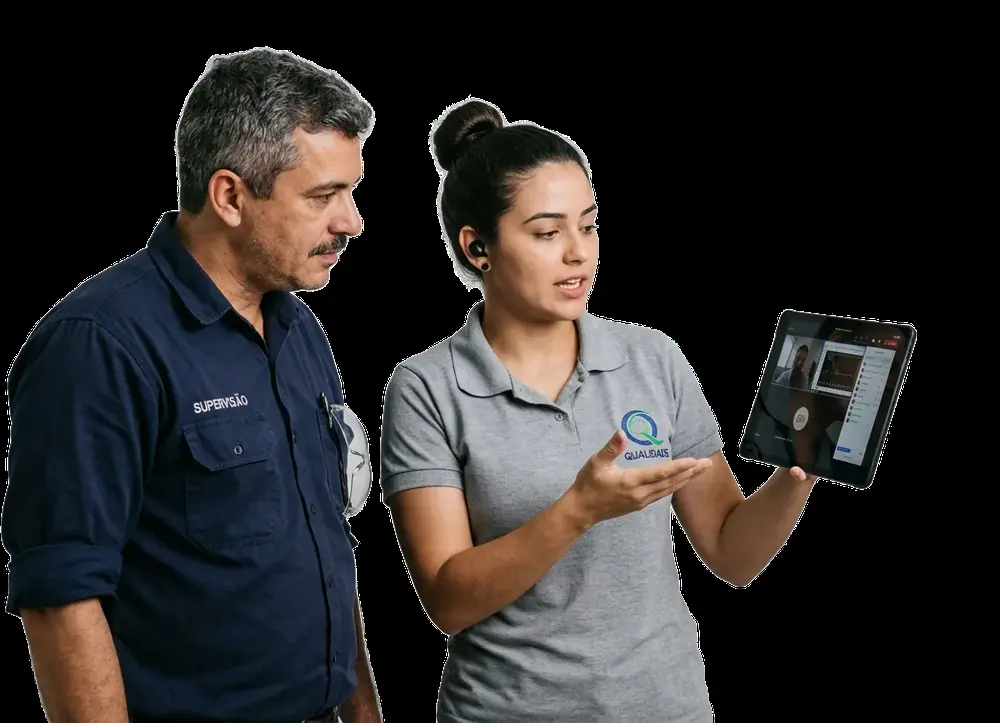
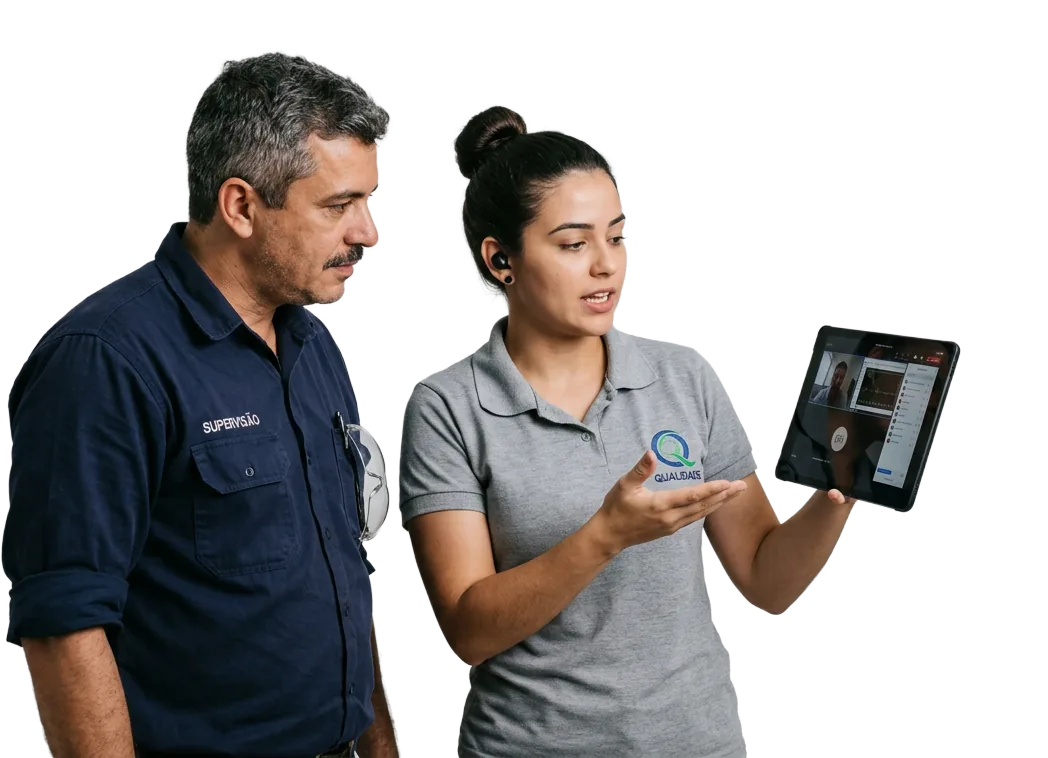
Devolve a transparencia das fotos recortadas da ISO 9001 e do PBQP-H.
A compressao tinha gravado o fundo preto no lugar da area vazia.

diff --git a/site/public/diagnostico-iso-9001-campanha/index.html b/site/public/diagnostico-iso-9001-campanha/index.html
@@ -104,13 +104,19 @@
   .next h2{margin:0 0 6px;font-size:20px;line-height:1.25;font-weight:800;}
   .next > p{margin:0 0 14px;font-size:14px;color:#C7C4B6;}
   .next > p.ask-q{font-size:15px;font-weight:800;line-height:1.35;color:#FFFAEB;}
+  .q-label{display:block;margin:12px 0 6px;font-size:13px;font-weight:800;color:#FFFAEB;}
+  #qualForm .btn-send{margin-top:16px;}
   .choices button{white-space:normal;line-height:1.3;text-align:center;}
   form{display:flex;flex-direction:column;gap:8px;}
   input{
     font-family:inherit;font-size:15px;font-weight:500;color:var(--text);
     border:0;border-radius:12px;padding:13px 14px;width:100%;background:#fff;
   }
-  input:focus{outline:2px solid var(--orange);outline-offset:1px;}
+  input:focus,select:focus{outline:2px solid var(--orange);outline-offset:1px;}
+  select{
+    font-family:inherit;font-size:15px;font-weight:500;color:var(--text);
+    border:0;border-radius:12px;padding:13px 14px;width:100%;background:#fff;
+  }
   .btn-send{background:var(--orange);color:#fff;width:100%;margin-top:4px;}
   .btn-send:hover{background:var(--orange-hover);}
   .btn-send:disabled{opacity:.55;cursor:not-allowed;}
@@ -179,6 +185,65 @@
         <button type="button" class="btn-no" id="noBtn">Não, prefiro continuar cometendo os mesmos erros</button>
       </div>
       <p class="ask-msg" id="askMsg" role="alert"></p>
+    </div>
+    <div class="next" id="qualify" hidden>
+      <h2>Antes de enviar ao time</h2>
+      <p>Estas respostas vão junto com o diagnóstico.</p>
+      <form id="qualForm" novalidate>
+        <label class="q-label" for="qFunc">Quantos funcionários a empresa tem?</label>
+        <select id="qFunc" name="funcionarios" required>
+          <option value="">Selecione</option>
+          <option>1 a 10</option>
+          <option>11 a 50</option>
+          <option>51 a 100</option>
+          <option>101 a 250</option>
+          <option>251 a 500</option>
+          <option>Mais de 500</option>
+        </select>
+        <label class="q-label" for="qCargo">Qual é o seu cargo?</label>
+        <select id="qCargo" name="cargo" required>
+          <option value="">Selecione</option>
+          <option>Proprietário</option>
+          <option>Diretor / C-level</option>
+          <option>Consultor</option>
+          <option>Funcionário buscando informações</option>
+          <option>Só estou curioso</option>
+        </select>
+        <label class="q-label" for="qFat">Qual é o faturamento mensal?</label>
+        <select id="qFat" name="faturamento" required>
+          <option value="">Selecione</option>
+          <option>Até R$ 50 mil</option>
+          <option>R$ 50 mil a R$ 100 mil</option>
+          <option>R$ 100 mil a R$ 300 mil</option>
+          <option>R$ 300 mil a R$ 500 mil</option>
+          <option>R$ 500 mil a R$ 1 milhão</option>
+          <option>Acima de R$ 1 milhão</option>
+        </select>
+        <label class="q-label" for="qSeg">Qual é o segmento da empresa?</label>
+        <select id="qSeg" name="segmento" required>
+          <option value="">Selecione</option>
+          <option>Indústria</option>
+          <option>Construção Civil</option>
+          <option>Alimentos e Bebidas</option>
+          <option>Saúde e Bem-estar</option>
+          <option>Tecnologia e TI</option>
+          <option>Serviços</option>
+          <option>Logística e Transporte</option>
+          <option>Comércio e Varejo</option>
+          <option>Agronegócio</option>
+          <option>Outro</option>
+        </select>
+        <label class="q-label" for="qUrg">Qual é a urgência?</label>
+        <select id="qUrg" name="urgencia" required>
+          <option value="">Selecione</option>
+          <option>Preciso resolver agora</option>
+          <option>Nos próximos 30 dias</option>
+          <option>Neste semestre</option>
+          <option>Ainda não tenho prazo</option>
+        </select>
+        <button class="btn-send" id="qualBtn" type="submit">Enviar para o time</button>
+        <p class="ask-msg" id="qualMsg" role="alert"></p>
+      </form>
     </div>
     <div class="ok" id="thanks" hidden></div>
     <button type="button" class="again" id="againBtn">Refazer as perguntas</button>
@@ -417,6 +482,12 @@
     document.getElementById("ask").hidden = false;
     document.getElementById("askChoices").hidden = false;
     document.getElementById("askMsg").textContent = "";
+    document.getElementById("qualify").hidden = true;
+    document.getElementById("qualForm").reset();
+    document.getElementById("qualMsg").textContent = "";
+    var qualBtn = document.getElementById("qualBtn");
+    qualBtn.disabled = false;
+    qualBtn.textContent = "Enviar para o time";
     document.getElementById("thanks").hidden = true;
     document.getElementById("againBtn").hidden = false;
     quizEl.hidden = true;
@@ -461,6 +532,11 @@
     sendBtn.textContent = "Ver meu diagnóstico";
     document.getElementById("yesBtn").disabled = false;
     document.getElementById("noBtn").disabled = false;
+    document.getElementById("qualForm").reset();
+    document.getElementById("qualMsg").textContent = "";
+    var qualBtn = document.getElementById("qualBtn");
+    qualBtn.disabled = false;
+    qualBtn.textContent = "Enviar para o time";
     showQuiz();
   });
 
@@ -577,18 +653,44 @@
     });
   });
 
-  function sendChoice(choice) {
+  function showQualify() {
+    if (!result) return;
+    document.getElementById("ask").hidden = true;
+    var box = document.getElementById("qualify");
+    box.hidden = false;
+    document.getElementById("qualMsg").textContent = "";
+    box.scrollIntoView({ behavior: "smooth", block: "start" });
+  }
+
+  function sendChoice(choice, extra) {
     if (!pessoa || !result) return;
     var yesBtn = document.getElementById("yesBtn");
     var noBtn = document.getElementById("noBtn");
     var askMsg = document.getElementById("askMsg");
-    if (yesBtn.disabled) return;
-    yesBtn.disabled = true;
-    noBtn.disabled = true;
-    askMsg.textContent = "";
+    var qualBtn = document.getElementById("qualBtn");
+    var qualMsg = document.getElementById("qualMsg");
+    if (choice === "sim") {
+      if (qualBtn.disabled) return;
+      qualBtn.disabled = true;
+      qualBtn.textContent = "Enviando...";
+      qualMsg.textContent = "";
+    } else {
+      if (yesBtn.disabled) return;
+      yesBtn.disabled = true;
+      noBtn.disabled = true;
+      askMsg.textContent = "";
+    }
     var weak = result.rows[0];
     var note = choice === "sim"
-      ? "Pediu contato para resolver: " + weak.name + ". " + weak.gap
+      ? [
+          "Pediu contato para resolver: " + weak.name + ". " + weak.gap,
+          "Funcionários: " + extra.funcionarios,
+          "Cargo: " + extra.cargo,
+          "Faturamento mensal: " + extra.faturamento,
+          "Segmento: " + extra.segmento,
+          "Urgência: " + extra.urgencia,
+          mensagem()
+        ].join("\n")
       : "Viu o diagnóstico e não pediu contato. Ponto mais fraco: " + weak.name + ".";
     var payload = {
       nome: pessoa.nome,
@@ -603,6 +705,13 @@
       landing: location.href,
       meta_content_name: CONTENT_NAME
     };
+    if (choice === "sim" && extra) {
+      payload.funcionarios = extra.funcionarios;
+      payload.cargo = extra.cargo;
+      payload.faturamento = extra.faturamento;
+      payload.segmento = extra.segmento;
+      payload.urgencia = extra.urgencia;
+    }
     var params = new URLSearchParams(location.search);
     ["utm_source", "utm_medium", "utm_campaign", "utm_term", "utm_content", "gclid", "fbclid", "gbraid", "wbraid"].forEach(function (key) {
       var value = params.get(key);
@@ -623,12 +732,19 @@
     }).then(function (res) {
       if (window.tplTurnstileReset) window.tplTurnstileReset();
       if (!res.ok || !res.body || res.body.ok !== true) {
-        yesBtn.disabled = false;
-        noBtn.disabled = false;
-        askMsg.textContent = "Não conseguimos registrar agora. Tente de novo.";
+        if (choice === "sim") {
+          qualBtn.disabled = false;
+          qualBtn.textContent = "Enviar para o time";
+          qualMsg.textContent = "Não conseguimos registrar agora. Tente de novo.";
+        } else {
+          yesBtn.disabled = false;
+          noBtn.disabled = false;
+          askMsg.textContent = "Não conseguimos registrar agora. Tente de novo.";
+        }
         return;
       }
       document.getElementById("ask").hidden = true;
+      document.getElementById("qualify").hidden = true;
       document.getElementById("againBtn").hidden = true;
       var thanks = document.getElementById("thanks");
       thanks.hidden = false;
@@ -637,13 +753,36 @@
         : "Certo. O diagnóstico fica com você.";
     }).catch(function () {
       if (window.tplTurnstileReset) window.tplTurnstileReset();
-      yesBtn.disabled = false;
-      noBtn.disabled = false;
-      askMsg.textContent = "Não conseguimos registrar agora. Tente de novo.";
+      if (choice === "sim") {
+        qualBtn.disabled = false;
+        qualBtn.textContent = "Enviar para o time";
+        qualMsg.textContent = "Não conseguimos registrar agora. Tente de novo.";
+      } else {
+        yesBtn.disabled = false;
+        noBtn.disabled = false;
+        askMsg.textContent = "Não conseguimos registrar agora. Tente de novo.";
+      }
     });
   }
-  document.getElementById("yesBtn").addEventListener("click", function () { sendChoice("sim"); });
+  document.getElementById("yesBtn").addEventListener("click", showQualify);
   document.getElementById("noBtn").addEventListener("click", function () { sendChoice("nao"); });
+  document.getElementById("qualForm").addEventListener("submit", function (ev) {
+    ev.preventDefault();
+    var extra = {
+      funcionarios: document.getElementById("qFunc").value,
+      cargo: document.getElementById("qCargo").value,
+      faturamento: document.getElementById("qFat").value,
+      segmento: document.getElementById("qSeg").value,
+      urgencia: document.getElementById("qUrg").value
+    };
+    var qualMsg = document.getElementById("qualMsg");
+    if (!extra.funcionarios || !extra.cargo || !extra.faturamento || !extra.segmento || !extra.urgencia) {
+      qualMsg.textContent = "Preencha as cinco respostas para enviar.";
+      return;
+    }
+    qualMsg.textContent = "";
+    sendChoice("sim", extra);
+  });
 
   showQuiz();
 })();

diff --git a/site/src/lp/pbqp-h-lp-v3.html b/site/src/lp/pbqp-h-lp-v3.html
@@ -33,7 +33,7 @@
 <section class="guarantee" id="garantia"><div class="wrap guarantee-grid"><strong class="guarantee-number">200%</strong><div class="guarantee-text"><h2>Certificação ou o dobro do dinheiro de volta.</h2><p>Se sua construtora cumprir todos os processos do método e ainda assim não obtiver a certificação, aplica-se a garantia de devolução de 200% prevista em contrato. Consulte as condições, obrigações e limites da garantia para o seu projeto.</p></div><button class="btn" data-lead="garantia" data-abre-form data-cta-pos="meio" data-cta="garantia">Solicitar proposta PBQP-H</button></div></section>
 <section class="section standard-diffs"><div class="wrap split"><div><h2>Por que contar<br>com a Templum?</h2><article class="diff-row"><img class="icon" src="/consultoria/iso-9001-lp-v3/assets/img/icons/especialistas.webp" alt="" width="48" height="48" loading="lazy"><div><h3>Especialistas</h3><p>Orientação técnica para esclarecer dúvidas e acompanhar as atividades da construtora durante a implementação.</p></div></article><article class="diff-row"><img class="icon" src="/consultoria/iso-9001-lp-v3/assets/img/icons/plataforma.webp" alt="" width="48" height="48" loading="lazy"><div><h3>Templum OS</h3><p>Plataforma com agentes integrados que entendem o seu sistema de gestão e apoiam o trabalho da implementação.</p></div></article><article class="diff-row"><img class="seal" src="https://templum.com.br/consultoria/iso-9001-lp-v3/assets/img/selo-estamos-implementando-160.webp" alt="Selo Estamos Implementando, da Templum" width="44" height="44" loading="lazy"><div><h3>Selo “Estamos Implementando”</h3><p>Comunique que a construtora está em implementação com a Templum. O selo informa esse estágio e não substitui o certificado nem os requisitos do banco ou do edital.</p></div></article></div><figure class="os-visual"><img src="https://templum.com.br/consultoria/iso-9001-lp-v3/assets/img/templum-os-800.webp" alt="Ilustração institucional do Templum OS, reutilizada da página ISO 9001 da Templum" width="800" height="500" loading="lazy"><figcaption>Templum OS · tecnologia de apoio à implementação.</figcaption></figure></div></section>
 <section class="section proof" id="experiencias"><div class="wrap"><div class="proof-heading"><div><h2>Orientação durante a implementação.<br>Confiança para avançar.</h2><p>A construção em destaque, e relatos de quem já implementou com a Templum.</p></div><div class="proof-metrics"><div><strong>+2.000</strong><span>clientes certificados</span></div><div><strong>4,9</strong><span>de nota no Google</span></div><div><strong>+30 anos</strong><span>de mercado</span></div></div></div><div class="proof-grid"><article class="proof-feature"><figure class="quote"><blockquote>“O PBQP-H é cartão de visita para os investidores, para o financiamento, para tudo. O banco fica tranquilo, porque você já passou por requisitos que uma pessoa qualquer não passaria. Implementar com a Templum foi muito fácil. Ela deu um checklist, deu um procedimento e a gente simplesmente seguiu.”</blockquote></figure><p class="eyebrow">Experiência no seu setor</p><h3>Construtora Carvalho Forte</h3><a class="case-video" href="https://www.youtube.com/watch?v=CiA6yRDMWyk" target="_blank" rel="noopener noreferrer" aria-label="Assistir ao depoimento de PBQP-H da Construtora Carvalho Forte"><img src="https://img.youtube.com/vi/CiA6yRDMWyk/hqdefault.jpg" width="480" height="360" alt="Vídeo do depoimento da Construtora Carvalho Forte sobre o PBQP-H" loading="lazy"><span class="play" aria-hidden="true">▶</span><span class="video-caption">Experiência de PBQP-H · Construtora Carvalho Forte</span></a></article><article class="proof-quotes"><figure class="quote"><blockquote>“Excelente prestação de serviço, plataforma interativa e muito fácil de navegar. Mesmo sendo uma consultoria remota, não nos sentimos sozinhos na execução das tarefas. Tivemos o retorno esperado, com a certificação na norma 9001:2015 em 10 meses de projeto.”</blockquote><figcaption><strong>Gleyse Nunes</strong><span>Cliente Templum, certificação ISO 9001:2015</span></figcaption></figure><figure class="quote quote-small"><blockquote>“Conquistamos dentro do prazo de 1 ano 5 certificações ISOs (9001, 14001, 45001, 27001 e 27701) com a parceria da Templum. Esse prazo curto só foi possível através da excelente metodologia e consultores da Templum.”</blockquote><figcaption><strong>Daniel Okubo</strong><span>ManpowerGroup, avaliação no Google</span></figcaption></figure><a class="proof-extra" href="https://vimeo.com/106970851" target="_blank" rel="noopener noreferrer" aria-label="Assistir ao vídeo da APAE"><span class="proof-extra-thumb"><img src="/consultoria/iso-9001-lp-v3/assets/img/video-apae.webp" alt="" width="200" height="112" loading="lazy"><span class="play" aria-hidden="true">▶</span></span><span class="proof-extra-copy"><strong>APAE</strong><span>Como a ISO 9001 ajuda a APAE a captar mais recursos.</span></span></a><a class="proof-extra" href="https://vimeo.com/93394460" target="_blank" rel="noopener noreferrer" aria-label="Assistir à experiência na indústria de usinagem"><span class="proof-extra-thumb"><img src="/consultoria/iso-9001-lp-v3/assets/img/video-usinagem.webp" alt="" width="200" height="112" loading="lazy"><span class="play" aria-hidden="true">▶</span></span><span class="proof-extra-copy"><strong>Indústria de usinagem</strong><span>A ISO 9001 aplicada a uma indústria do setor.</span></span></a></article></div><div class="proof-cta"><button class="btn" data-lead="prova" data-abre-form data-cta-pos="meio" data-cta="prova">Solicitar proposta PBQP-H</button></div></div></section>
-<section class="section decision"><div class="wrap decision-grid"><figure class="decision-photo"><img src="/consultoria/iso-9001-lp-v3/assets/img/persona-duo.webp?v=20261029p" alt="Consultora e gestor analisam os documentos e as responsabilidades do projeto" width="800" height="600" loading="lazy"></figure><div class="decision-copy"><h2>Clareza para quem aprova. Apoio para quem implementa.</h2><p>Você conduz o projeto, mas a decisão passa pelo sócio ou pela diretoria? Leve a proposta para essa conversa: ela mostra o que a consultoria faz, o que fica com a equipe da construtora e as condições de contratação.</p><button class="btn" data-lead="decisao" data-abre-form data-cta-pos="meio" data-cta="decisao">Solicitar proposta PBQP-H</button></div></div></section>
+<section class="section decision"><div class="wrap decision-grid"><figure class="decision-photo"><img src="/consultoria/iso-9001-lp-v3/assets/img/persona-duo.webp?v=20261030h" alt="Consultora e gestor analisam os documentos e as responsabilidades do projeto" width="800" height="600" loading="lazy"></figure><div class="decision-copy"><h2>Clareza para quem aprova. Apoio para quem implementa.</h2><p>Você conduz o projeto, mas a decisão passa pelo sócio ou pela diretoria? Leve a proposta para essa conversa: ela mostra o que a consultoria faz, o que fica com a equipe da construtora e as condições de contratação.</p><button class="btn" data-lead="decisao" data-abre-form data-cta-pos="meio" data-cta="decisao">Solicitar proposta PBQP-H</button></div></div></section>
 <section class="section opportunity" id="oportunidade"><div class="wrap split"><div class="copy"><div class="eyebrow">Uma exigência concreta</div><h2>O próximo empreendimento pode pedir uma construtora qualificada.</h2><p class="muted">Na linha Apoio à Produção da CAIXA, a qualificação SiAC/PBQP-H está entre os requisitos apresentados às construtoras.</p><p class="muted">Se essa é a operação que você pretende realizar, a preparação precisa entrar no planejamento.</p></div><aside class="reference-card" aria-label="Referência oficial da oportunidade"><div class="ref-tag"><svg class="icon" fill="none" stroke="currentColor" aria-hidden="true"><use href="#building"/></svg>Referência oficial · CAIXA</div><h3>Apoio à Produção</h3><p class="muted" style="font-size:13px;margin-bottom:20px">Entre as condições apresentadas para essa linha:</p><div class="requirement"><svg class="icon" fill="none" stroke="currentColor" aria-hidden="true"><use href="#check"/></svg><strong>Qualificação da construtora no SiAC/PBQP-H</strong></div><div class="requirement"><svg class="icon" fill="none" stroke="currentColor" aria-hidden="true"><use href="#check"/></svg><span>Incorporação registrada e projeto aprovado</span></div><div class="requirement"><svg class="icon" fill="none" stroke="currentColor" aria-hidden="true"><use href="#check"/></svg><span>Licenças e demais requisitos aplicáveis</span></div><p class="note">Fonte: CAIXA, Apoio à Produção. Referência consultada em 29/10/2026. As condições aplicáveis ao empreendimento devem ser confirmadas com o agente financeiro.</p></aside></div></section>
 <section class="section soft" id="duvidas"><div class="wrap faq-grid"><div class="faq-intro"><div class="eyebrow">Perguntas frequentes</div><h2>Antes de começar, esclareça o que o projeto envolve.</h2><p>Uma preparação viável começa com as perguntas certas.</p></div><div>
 <details open><summary>O PBQP-H garante a aprovação do financiamento?</summary><p>Não. A certificação e a análise de financiamento são processos distintos. O banco avalia outras condições da construtora e do empreendimento.</p></details>

diff --git a/site/worker.js b/site/worker.js
@@ -1004,6 +1004,7 @@ async function handleLead(request, env, ctx) {
     urgencia: body.urgencia || "",
     funcionarios: body.funcionarios || "",
     faturamento: body.faturamento || "",
+    segmento: body.segmento || "",
     mensagem: body.mensagem || "",
     // "Maior desafio da empresa hoje" — select das LPs (ex.: /planejamento-estrategico-2027).
     // Separado de `mensagem` (texto livre) para virar campo próprio no Supabase e no CRM.
@@ -2463,8 +2464,26 @@ async function crmReadLead(headers, id) {
   return d.data || d.lead || d;
 }
 
+function diagQualificacaoNota(lead) {
+  return [
+    lead.funcionarios ? "Funcionários: " + String(lead.funcionarios).trim() : "",
+    lead.cargo ? "Cargo: " + String(lead.cargo).trim() : "",
+    lead.faturamento ? "Faturamento mensal: " + String(lead.faturamento).trim() : "",
+    lead.segmento ? "Segmento: " + String(lead.segmento).trim() : "",
+    lead.urgencia ? "Urgência: " + String(lead.urgencia).trim() : "",
+  ].filter(Boolean).join("\n");
+}
+
+function diagQualificacaoFields(lead) {
+  const cf = {};
+  if (lead.cargo) cf[ORBIT_FIELDS.cargo] = String(lead.cargo).trim();
+  if (lead.funcionarios) cf[ORBIT_FIELDS.funcionarios] = String(lead.funcionarios).trim();
+  if (lead.faturamento) cf[ORBIT_FIELDS.faturamento] = String(lead.faturamento).trim();
+  return cf;
+}
+
 // Diagnóstico de campanha: o cadastro nasce no MQL. "Sim" move esse card
-// para o INBOUND. "Não" permanece no MQL, com a observação da escolha.
+// para o INBOUND, com a qualificação e as respostas. "Não" permanece no MQL.
 async function routeDiagnosticoContato(lead, env, querContato) {
   const token = env.ORBIT_CRM_API_KEY;
   if (!token) return { ok: false, reason: "not_configured" };
@@ -2492,17 +2511,33 @@ async function routeDiagnosticoContato(lead, env, querContato) {
     const card = querContato ? (mql || inbound) : mql;
     if (card) {
       const full = await crmReadLead(headers, card.id) || card;
+      let notes = appendUniqueNote(full.notes || full.note, note);
       const patch = {
         tags: mergeLeadTags(full.tags, diagContatoTags(tag, lead.pagina)),
-        notes: appendUniqueNote(full.notes || full.note, note),
       };
-      if (querContato && full.pipeline_id !== ORBIT_PIPELINE_ID) {
-        patch.pipeline_id = ORBIT_PIPELINE_ID;
-        patch.stage_id = ORBIT_STAGE_ID;
+      if (querContato) {
+        notes = appendUniqueNote(notes, diagQualificacaoNota(lead));
+        const extra = diagQualificacaoFields(lead);
+        if (Object.keys(extra).length) {
+          const prev = full.custom_fields && typeof full.custom_fields === "object" ? full.custom_fields : {};
+          patch.custom_fields = { ...prev, ...extra };
+        }
+        if (full.pipeline_id !== ORBIT_PIPELINE_ID) {
+          patch.pipeline_id = ORBIT_PIPELINE_ID;
+          patch.stage_id = ORBIT_STAGE_ID;
+        }
       }
-      const res = await fetch(`${ORBIT_BASE}/leads/${card.id}`, {
+      patch.notes = notes;
+      let res = await fetch(`${ORBIT_BASE}/leads/${card.id}`, {
         method: "PATCH", headers, body: JSON.stringify(patch),
       });
+      if (!res.ok && patch.custom_fields) {
+        const retry = { ...patch };
+        delete retry.custom_fields;
+        res = await fetch(`${ORBIT_BASE}/leads/${card.id}`, {
+          method: "PATCH", headers, body: JSON.stringify(retry),
+        });
+      }
       if (!res.ok) {
         const e = await res.text().catch(() => "");
         return { ok: false, error: e.slice(0, 180), lead_id: card.id };
@@ -2510,7 +2545,11 @@ async function routeDiagnosticoContato(lead, env, querContato) {
       return { ok: true, lead_id: card.id, moved: !!(querContato && full.pipeline_id !== ORBIT_PIPELINE_ID) };
     }
 
-    if (querContato) return saveToOrbit(lead, env);
+    if (querContato) {
+      const outbound = { ...lead };
+      if (String(lead.mensagem || "").includes("Urgência:")) outbound.urgencia = "";
+      return saveToOrbit(outbound, env);
+    }
     return saveToMqlInscricao(lead, env);
   } catch (e) {
     return { ok: false, error: "fetch_failed" };

diff --git a/site/src/lp/iso-9001-lp-v3.html b/site/src/lp/iso-9001-lp-v3.html
@@ -224,10 +224,10 @@
           <div class="cast cast--steps method__visual" aria-hidden="true">
             <div class="cast__grid"></div>
             <div class="cast__slab"></div>
-            <img class="cast__img is-active" data-step-img="0" src="assets/img/etapa-diagnostico.webp?v=20261029p" alt="" width="1048" height="758" loading="lazy">
-            <img class="cast__img" data-step-img="1" src="assets/img/etapa-plano.webp?v=20261029p" alt="" width="1048" height="758" loading="lazy">
-            <img class="cast__img" data-step-img="2" src="assets/img/etapa-implementacao.webp?v=20261029p" alt="" width="1048" height="758" loading="lazy">
-            <img class="cast__img" data-step-img="3" src="assets/img/etapa-auditoria.webp?v=20261029p" alt="" width="1048" height="758" loading="lazy">
+            <img class="cast__img is-active" data-step-img="0" src="assets/img/etapa-diagnostico.webp?v=20261030h" alt="" width="1048" height="758" loading="lazy">
+            <img class="cast__img" data-step-img="1" src="assets/img/etapa-plano.webp?v=20261030h" alt="" width="1048" height="758" loading="lazy">
+            <img class="cast__img" data-step-img="2" src="assets/img/etapa-implementacao.webp?v=20261030h" alt="" width="1048" height="758" loading="lazy">
+            <img class="cast__img" data-step-img="3" src="assets/img/etapa-auditoria.webp?v=20261030h" alt="" width="1048" height="758" loading="lazy">
           </div>
         </div>
 
@@ -410,7 +410,7 @@
         <div class="cast cast--duo" aria-hidden="true">
           <div class="cast__grid"></div>
           <div class="cast__slab"></div>
-          <img class="cast__img" src="assets/img/persona-duo.webp?v=20261029p" alt="" width="1071" height="808" loading="lazy">
+          <img class="cast__img" src="assets/img/persona-duo.webp?v=20261030h" alt="" width="1071" height="808" loading="lazy">
         </div>
         <div class="decision__text">
           <h2 id="decisao-title" class="h2">Clareza para quem aprova. Apoio para quem implementa.</h2>
